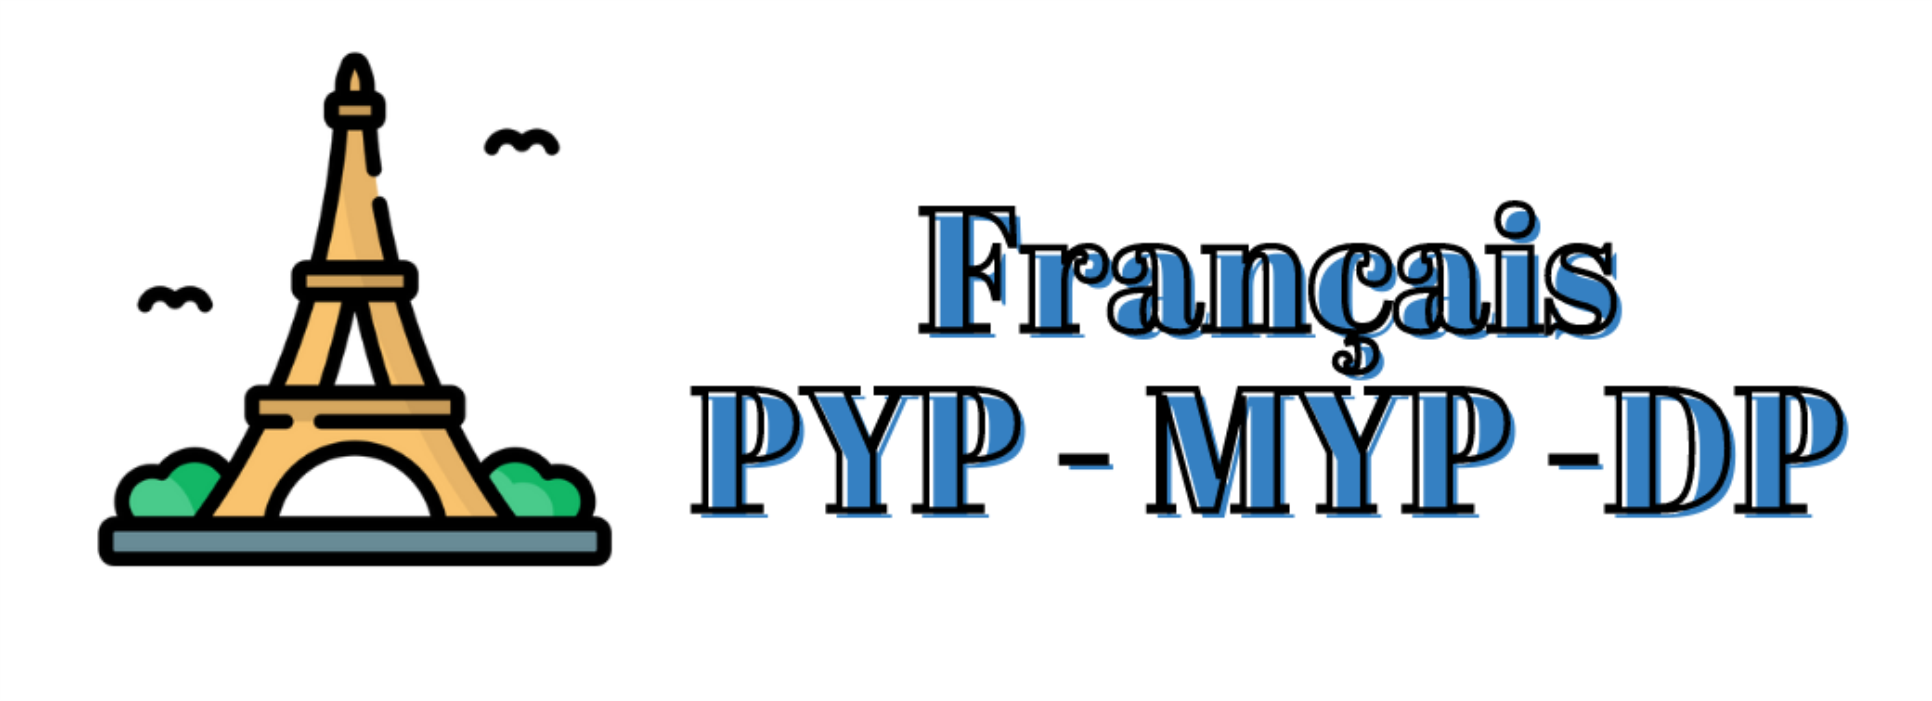
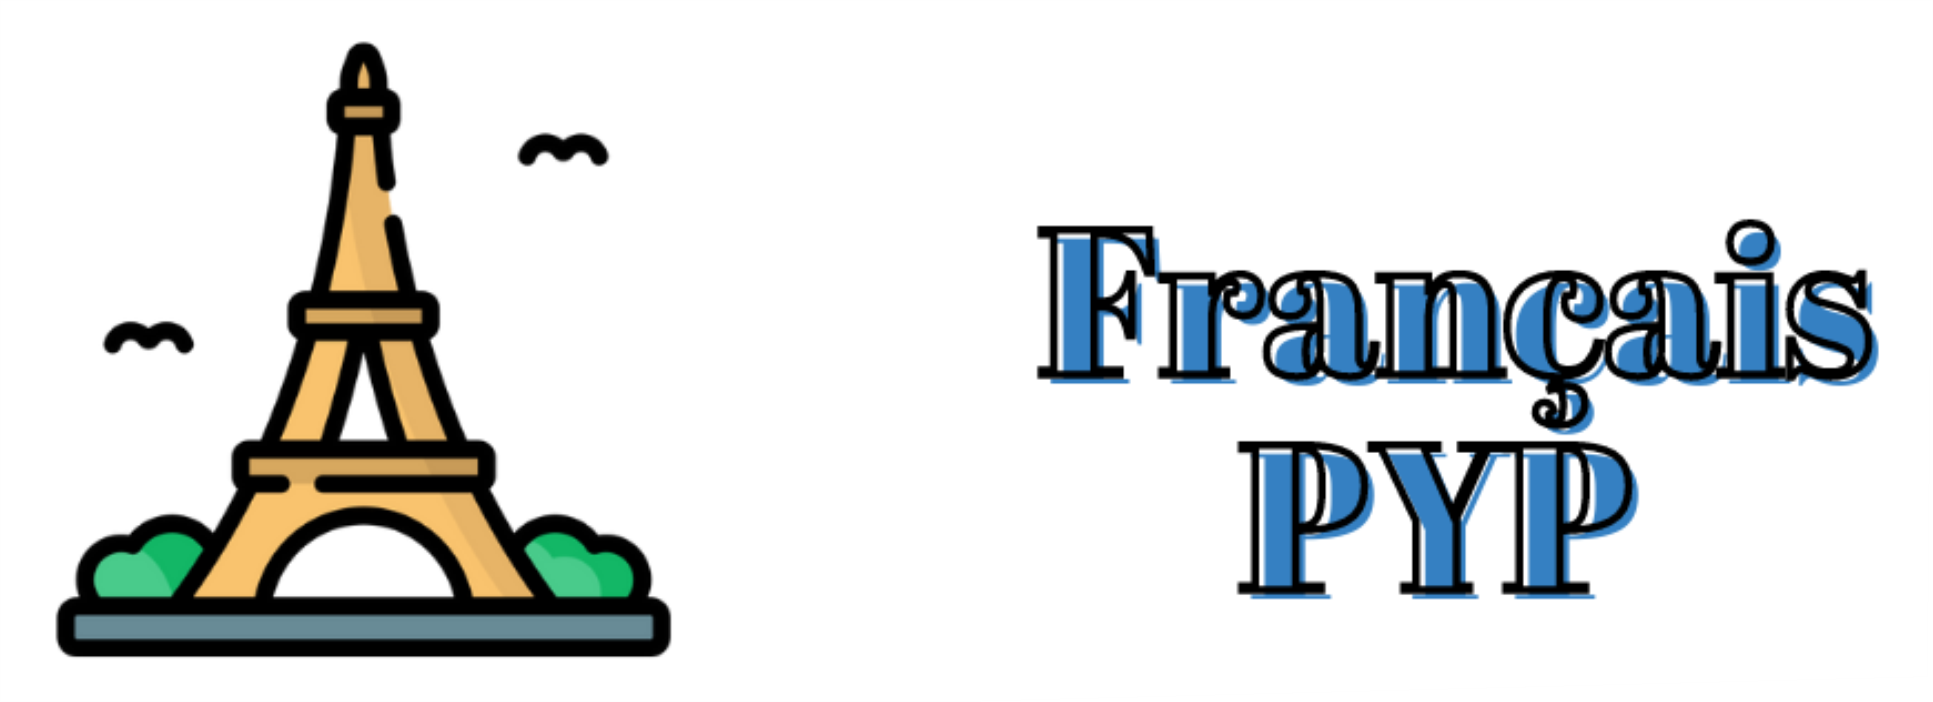
ok

Changed region(s): [[0.3416, 0.2696, 0.9938, 0.8688], [0.0311, 0.0599, 0.3727, 0.9586], [0.2484, 0.1797, 0.3416, 0.2397]]

diff --git a/multilinguismo/multiFrances2.html b/multilinguismo/multiFrances2.html
@@ -13,13 +13,13 @@
         
         <section class="gallery">
         <div>
-        
-          <iframe src="https://app.emaze.com/@AOQWFFOTF/emaze-frances-pyp" width="100%" height="540px" seamless webkitallowfullscreen mozallowfullscreen allowfullscreen></iframe>
+          
+          <iframe src="https://app.emaze.com/@AOQZQWIQQ/emaze-frances-myp---dp" width="100%" height="540px" seamless webkitallowfullscreen mozallowfullscreen allowfullscreen></iframe>
           
         </div>
         </section> 
         <section class="volver">
-          <div class="titulo"> Français PYP  
+          <div class="titulo"> Français MYP - DP
             </div>
             <div><a href="index.html" >
             MENU</a>

diff --git a/multilinguismo/index.html b/multilinguismo/index.html
@@ -28,9 +28,9 @@
             <div ><a href="multiFrances.html" >
             <img src="../img/icono3.png" class="link3" alt=""></a>
             </div>
-            <!-- <div ><a href="multiespañol.html" >
-              <img src="../img/icono4.png" class="link4" alt=""></a>
-              </div> -->
+            <div ><a href="multiFrances2.html" >
+              <img src="../img/icono4.png" class="link3" alt=""></a>
+              </div>
 
         </section>
    

diff --git a/css/multilinguismo.css b/css/multilinguismo.css
@@ -112,18 +112,18 @@ body{
     }
     .link1{
     
-        width: 250px;
-        height: 80px;
+        width: 200px;
+        height: 70px;
     }
     .link2{
         
-        width: 250px;
-        height: 80px;
+        width: 200px;
+        height: 70px;
     }
     .link3{
         
-        width: 250px;
-        height: 80px;
+        width: 200px;
+        height: 70px;
     }
     .link4{
         
